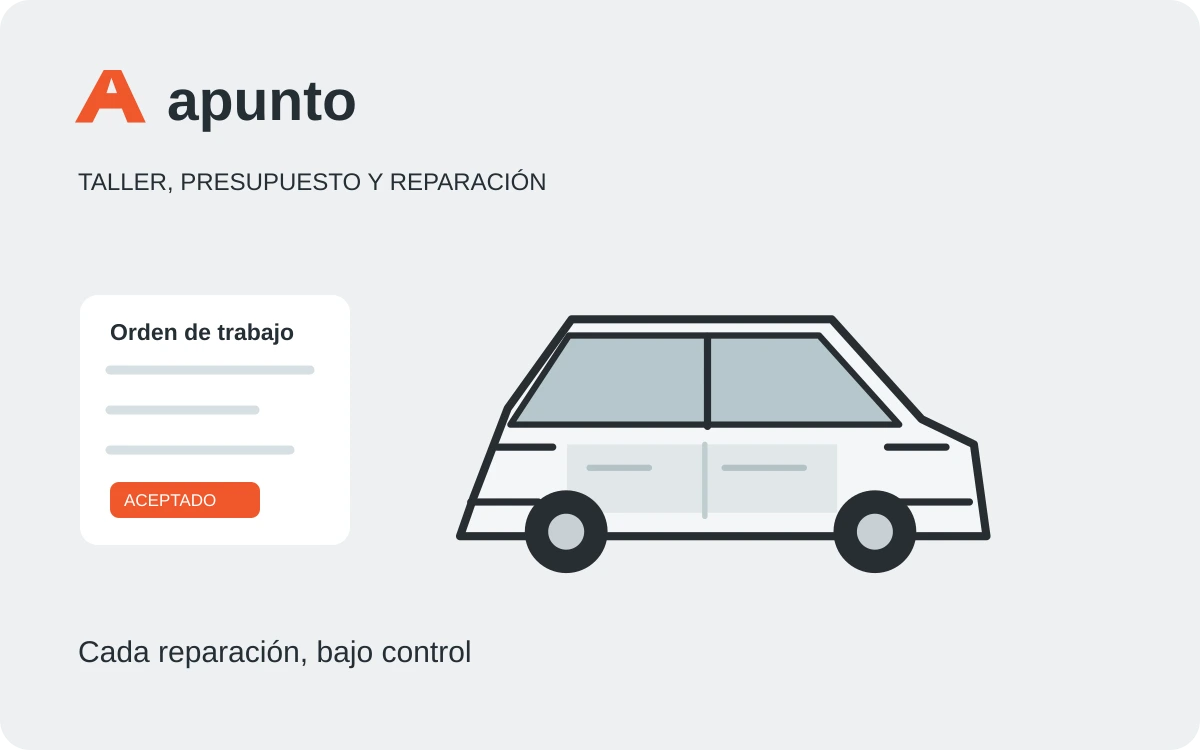
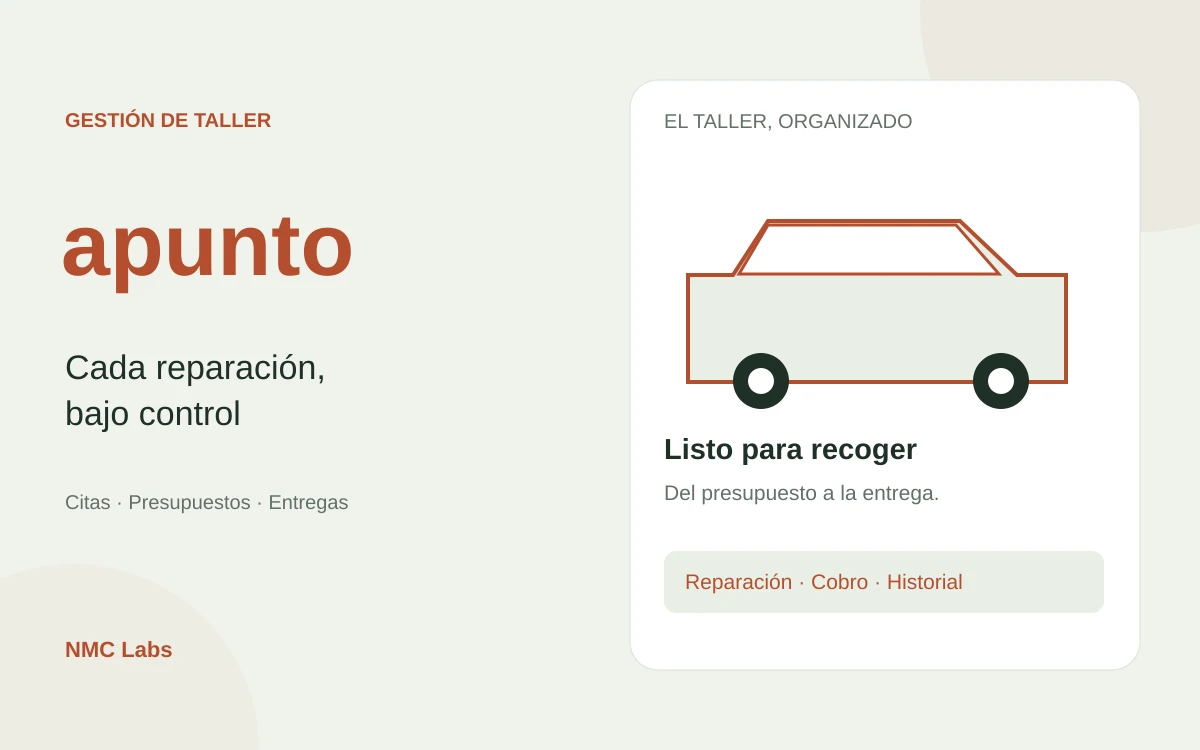
Group nodo with tools and unify project covers with the atlas layout

diff --git a/index.html b/index.html
@@ -49,9 +49,9 @@
         <a class="puntual-art brand-art" href="https://puntual.nmclabs.dev/" target="_blank" rel="noopener noreferrer" aria-label="Descubrir Puntual en una pestaña nueva"><span class="puntual-art-label">MENOS LLAMADAS. MÁS TIEMPO PARA LO TUYO.</span><picture class="project-cover"><source media="(prefers-color-scheme: dark)" srcset="proyectos/puntual-brand-dark.webp?v=themes1"><img src="proyectos/puntual-brand-light.webp?v=themes1" width="1200" height="750" alt="puntual: marca y agenda de barbería" loading="lazy"></picture><span class="puntual-art-caption">Tu equipo. Una sola agenda.<span aria-hidden="true"><svg class="icon-arrow" viewBox="0 0 24 24" fill="none" aria-hidden="true"><path d="m6 18 12-12M6 6h12v12" stroke="currentColor" stroke-width="1.7" stroke-linecap="round" stroke-linejoin="round"/></svg></span></span></a>
         <details class="project-origin"><summary><span>La idea detrás del proyecto</span><span class="origin-toggle" aria-hidden="true">+</span></summary><div class="origin-content" aria-label="La idea de Puntual"><div><span class="origin-label">LA IDEA</span><p>Un corte no debería interrumpirse para encontrar una hora entre llamadas y mensajes.</p></div><div><span class="origin-label">EL RETO</span><p>Hacer que cada reserva respete las especialidades del equipo, la duración del servicio y los descansos.</p></div><div><span class="origin-label">LA DECISIÓN</span><p>Conectar la reserva del cliente y la agenda del negocio en una demo completa, con cambios y cancelaciones que actualizan los huecos.</p></div></div></details>
       </article>
-      <article class="featured amano-featured" aria-labelledby="amano-titulo"><div class="featured-content"><p class="eyebrow"><time datetime="2026">2026</time> · INVENTARIO DE EMPRESA</p><h3 id="amano-titulo">Cada equipo,<br>en su sitio</h3><p>amano conecta el material de una empresa con las personas, las ubicaciones y su historial. Registra equipos con foto, personaliza la identidad de tu empresa y prueba asignaciones, préstamos, devoluciones, mantenimiento y etiquetas QR.</p><ul class="tags" aria-label="Funciones de amano"><li>Inventario</li><li>Custodia y préstamos</li><li>QR y mantenimiento</li></ul><a class="button project-cta" href="https://amano.nmclabs.dev/" target="_blank" rel="noopener noreferrer">Descubrir amano <span aria-hidden="true"><svg class="icon-arrow" viewBox="0 0 24 24" fill="none"><path d="m6 18 12-12M6 6h12v12" stroke="currentColor" stroke-width="1.7" stroke-linecap="round" stroke-linejoin="round"/></svg></span></a></div><a class="amano-art brand-art" href="https://amano.nmclabs.dev/" target="_blank" rel="noopener noreferrer" aria-label="Descubrir amano en una pestaña nueva"><picture class="project-cover"><source media="(prefers-color-scheme: dark)" srcset="proyectos/amano-brand-dark.webp?v=themes1"><img src="proyectos/amano-brand-light.webp?v=themes1" width="1200" height="750" alt="amano: equipo identificado, portátil y persona responsable" loading="lazy"></picture></a><details class="project-origin"><summary><span>La idea detrás del proyecto</span><span class="origin-toggle" aria-hidden="true">+</span></summary><div class="origin-content" aria-label="La idea de amano"><div><span class="origin-label">LA IDEA</span><p>Saber qué material tiene una empresa, dónde está y quién lo utiliza sin depender de varias hojas y mensajes.</p></div><div><span class="origin-label">EL RETO</span><p>Conectar cada equipo con su persona responsable, las entregas, las devoluciones y los cuidados pendientes.</p></div><div><span class="origin-label">LA DECISIÓN</span><p>Dar identidad propia a cada unidad y permitir probar el recorrido completo, desde el alta hasta una etiqueta QR.</p></div></div></details></article>
-      <article class="featured apunto-featured" aria-labelledby="apunto-titulo"><div class="featured-content"><p class="eyebrow"><time datetime="2026">2026</time> · GESTIÓN DE TALLERES</p><h3 id="apunto-titulo">Cada reparación,<br>bajo control</h3><p>apunto conecta citas, recepción y reparación para talleres de coches y motos. El cliente revisa el presupuesto original y sus adicionales; el negocio planifica profesionales y elevadores, gestiona piezas y conserva el historial. Incluye cobro presencial, resguardo y recordatorios de mantenimiento en una demo local.</p><ul class="tags" aria-label="Funciones de apunto"><li>Presupuestos y adicionales</li><li>Clientes y planificación</li><li>Historial y mantenimiento</li></ul><a class="button project-cta" href="https://apunto.nmclabs.dev/" target="_blank" rel="noopener noreferrer">Descubrir apunto <span aria-hidden="true"><svg class="icon-arrow" viewBox="0 0 24 24" fill="none"><path d="m6 18 12-12M6 6h12v12" stroke="currentColor" stroke-width="1.7" stroke-linecap="round" stroke-linejoin="round"/></svg></span></a></div><a class="apunto-art brand-art" href="https://apunto.nmclabs.dev/" target="_blank" rel="noopener noreferrer" aria-label="Descubrir apunto en una pestaña nueva"><picture class="project-cover"><source media="(prefers-color-scheme: dark)" srcset="proyectos/apunto-brand-dark.webp?v=20261121"><img src="proyectos/apunto-brand-light.webp?v=20261121" width="1200" height="750" alt="apunto: marca, vehículo y orden de trabajo" loading="lazy"></picture></a><details class="project-origin"><summary><span>La idea detrás del proyecto</span><span class="origin-toggle" aria-hidden="true">+</span></summary><div class="origin-content" aria-label="La idea de apunto"><div><span class="origin-label">LA IDEA</span><p>Una reparación necesita coordinar el trabajo del taller y mantener informado al cliente.</p></div><div><span class="origin-label">EL RETO</span><p>Conectar diagnóstico, presupuesto y piezas sin perder el estado ni la decisión del cliente.</p></div><div><span class="origin-label">LA DECISIÓN</span><p>Una orden de principio a fin, con acceso del cliente y versiones del presupuesto que conservan su historial.</p></div></div></details></article>
-<article class="featured nodo-featured" aria-labelledby="nodo-titulo"><div class="featured-content"><p class="eyebrow"><time datetime="2026">2026</time> · HERRAMIENTAS DE SISTEMAS</p><h3 id="nodo-titulo">Piensa, diseña,<br>comprueba</h3><p>Más de 100 herramientas para trabajar con redes, correo, datos y accesos. Diseña racks en 2D, coloca equipos, comprueba DNS y prepara informes. Una interfaz centrada en cada tarea, con cálculos locales y consultas externas autorizadas.</p><ul class="tags" aria-label="Funciones de nodo"><li>Más de 100 herramientas</li><li>Contraseñas y DNS</li><li>Racks 2D</li></ul><a class="button project-cta" href="https://nodo.nmclabs.dev/" target="_blank" rel="noopener noreferrer">Descubrir nodo</a></div><a class="nodo-art brand-art" href="https://nodo.nmclabs.dev/" target="_blank" rel="noopener noreferrer" aria-label="Descubrir nodo en una pestaña nueva"><picture class="project-cover"><source media="(prefers-color-scheme: dark)" srcset="proyectos/nodo-brand-dark.webp?v=20261124-focus"><img src="proyectos/nodo-brand-light.webp?v=20261124-focus" width="1200" height="750" alt="nodo: contraseñas, consulta DNS y diseñador de racks 2D" loading="lazy"></picture></a><details class="project-origin"><summary><span>La idea detrás del proyecto</span><span class="origin-toggle" aria-hidden="true">+</span></summary><div class="origin-content" aria-label="La idea de nodo"><div><span class="origin-label">LA IDEA</span><p>Resolver esas pequeñas tareas de sistemas que se repiten cada día, desde un solo lugar.</p></div><div><span class="origin-label">EL RETO</span><p>Generar accesos, conectar invitados y comprobar una copia sin enviar información privada a un servicio.</p></div><div><span class="origin-label">LA DECISIÓN</span><p>Herramientas agrupadas en la navegación superior, procesos locales y un editor visual de racks. Los proyectos se descargan de forma explícita y las consultas públicas requieren autorización.</p></div></div></details></article>
+      <article class="featured amano-featured" aria-labelledby="amano-titulo"><div class="featured-content"><p class="eyebrow"><time datetime="2026">2026</time> · INVENTARIO DE EMPRESA</p><h3 id="amano-titulo">Cada equipo,<br>en su sitio</h3><p>amano conecta el material de una empresa con las personas, las ubicaciones y su historial. Registra equipos con foto, personaliza la identidad de tu empresa y prueba asignaciones, préstamos, devoluciones, mantenimiento y etiquetas QR.</p><ul class="tags" aria-label="Funciones de amano"><li>Inventario</li><li>Custodia y préstamos</li><li>QR y mantenimiento</li></ul><a class="button project-cta" href="https://amano.nmclabs.dev/" target="_blank" rel="noopener noreferrer">Descubrir amano <span aria-hidden="true"><svg class="icon-arrow" viewBox="0 0 24 24" fill="none"><path d="m6 18 12-12M6 6h12v12" stroke="currentColor" stroke-width="1.7" stroke-linecap="round" stroke-linejoin="round"/></svg></span></a></div><a class="amano-art brand-art" href="https://amano.nmclabs.dev/" target="_blank" rel="noopener noreferrer" aria-label="Descubrir amano en una pestaña nueva"><picture class="project-cover"><source media="(prefers-color-scheme: dark)" srcset="proyectos/amano-brand-dark.webp?v=20261124-unified"><img src="proyectos/amano-brand-light.webp?v=20261124-unified" width="1200" height="750" alt="amano: equipo identificado, portátil y persona responsable" loading="lazy"></picture></a><details class="project-origin"><summary><span>La idea detrás del proyecto</span><span class="origin-toggle" aria-hidden="true">+</span></summary><div class="origin-content" aria-label="La idea de amano"><div><span class="origin-label">LA IDEA</span><p>Saber qué material tiene una empresa, dónde está y quién lo utiliza sin depender de varias hojas y mensajes.</p></div><div><span class="origin-label">EL RETO</span><p>Conectar cada equipo con su persona responsable, las entregas, las devoluciones y los cuidados pendientes.</p></div><div><span class="origin-label">LA DECISIÓN</span><p>Dar identidad propia a cada unidad y permitir probar el recorrido completo, desde el alta hasta una etiqueta QR.</p></div></div></details></article>
+      <article class="featured apunto-featured" aria-labelledby="apunto-titulo"><div class="featured-content"><p class="eyebrow"><time datetime="2026">2026</time> · GESTIÓN DE TALLERES</p><h3 id="apunto-titulo">Cada reparación,<br>bajo control</h3><p>apunto conecta citas, recepción y reparación para talleres de coches y motos. El cliente revisa el presupuesto original y sus adicionales; el negocio planifica profesionales y elevadores, gestiona piezas y conserva el historial. Incluye cobro presencial, resguardo y recordatorios de mantenimiento en una demo local.</p><ul class="tags" aria-label="Funciones de apunto"><li>Presupuestos y adicionales</li><li>Clientes y planificación</li><li>Historial y mantenimiento</li></ul><a class="button project-cta" href="https://apunto.nmclabs.dev/" target="_blank" rel="noopener noreferrer">Descubrir apunto <span aria-hidden="true"><svg class="icon-arrow" viewBox="0 0 24 24" fill="none"><path d="m6 18 12-12M6 6h12v12" stroke="currentColor" stroke-width="1.7" stroke-linecap="round" stroke-linejoin="round"/></svg></span></a></div><a class="apunto-art brand-art" href="https://apunto.nmclabs.dev/" target="_blank" rel="noopener noreferrer" aria-label="Descubrir apunto en una pestaña nueva"><picture class="project-cover"><source media="(prefers-color-scheme: dark)" srcset="proyectos/apunto-brand-dark.webp?v=20261124-unified"><img src="proyectos/apunto-brand-light.webp?v=20261124-unified" width="1200" height="750" alt="apunto: marca, vehículo y orden de trabajo" loading="lazy"></picture></a><details class="project-origin"><summary><span>La idea detrás del proyecto</span><span class="origin-toggle" aria-hidden="true">+</span></summary><div class="origin-content" aria-label="La idea de apunto"><div><span class="origin-label">LA IDEA</span><p>Una reparación necesita coordinar el trabajo del taller y mantener informado al cliente.</p></div><div><span class="origin-label">EL RETO</span><p>Conectar diagnóstico, presupuesto y piezas sin perder el estado ni la decisión del cliente.</p></div><div><span class="origin-label">LA DECISIÓN</span><p>Una orden de principio a fin, con acceso del cliente y versiones del presupuesto que conservan su historial.</p></div></div></details></article>
+
       <article class="featured estancia-featured" aria-labelledby="estancia-titulo"><div class="featured-content"><p class="eyebrow"><time datetime="2026">2026</time> · HOTELES Y ALOJAMIENTOS</p><h3 id="estancia-titulo">Cada estancia,<br>bien cuidada</h3><p>estancia conecta reservas, habitaciones y tarifas de temporada para hoteles, apartamentos y casas rurales. Gestiona categorías y fotos, prueba el check-in del huésped y atiende sus incidencias. Incluye informes, web del alojamiento y una guía para preparar conexiones con Airbnb o Booking.</p><ul class="tags" aria-label="Funciones de estancia"><li>Reservas</li><li>Tipos y cupos</li><li>Tarifas e informes</li></ul><a class="button project-cta" href="https://estancia.nmclabs.dev/" target="_blank" rel="noopener noreferrer">Descubrir estancia <span aria-hidden="true"><svg class="icon-arrow" viewBox="0 0 24 24" fill="none"><path d="m6 18 12-12M6 6h12v12" stroke="currentColor" stroke-width="1.7" stroke-linecap="round" stroke-linejoin="round"/></svg></span></a></div><a class="estancia-art brand-art" href="https://estancia.nmclabs.dev/" target="_blank" rel="noopener noreferrer" aria-label="Descubrir estancia en una pestaña nueva"><picture class="project-cover"><source media="(prefers-color-scheme: dark)" srcset="proyectos/estancia-brand-dark.webp?v=themes1"><img src="proyectos/estancia-brand-light.webp?v=themes1" width="1200" height="750" alt="estancia: marca, alojamiento y calendario de reservas" loading="lazy"></picture></a><details class="project-origin"><summary><span>La idea detrás del proyecto</span><span class="origin-toggle" aria-hidden="true">+</span></summary><div class="origin-content" aria-label="La idea de estancia"><div><span class="origin-label">LA IDEA</span><p>Organizar reservas y preparar cada llegada sin perder la cercanía con los huéspedes.</p></div><div><span class="origin-label">EL RETO</span><p>Conectar la disponibilidad de cada unidad, las tareas y la experiencia de quien reserva.</p></div><div><span class="origin-label">LA DECISIÓN</span><p>Una gestión para el negocio y una web con su propia identidad, con ejemplos de hotel, apartamentos y finca rural.</p></div></div></details></article>
       <article class="featured atlas-featured" aria-labelledby="atlas-titulo">
         <div class="featured-content"><p class="eyebrow"><time datetime="2026">2026</time> · PATRIMONIO PERSONAL</p><h3 id="atlas-titulo">Un lugar para ver<br>tu patrimonio</h3><p>atlas reúne cuentas, inversiones y activos en una visión clara. Un registro mensual para entender tu evolución, a tu ritmo.</p><ul class="tags" aria-label="Funciones de Atlas"><li>Patrimonio</li><li>Evolución</li><li>Informes</li></ul><a class="button project-cta" href="https://atlas.nmclabs.dev/" target="_blank" rel="noopener noreferrer">Descubrir atlas <span aria-hidden="true"><svg class="icon-arrow" viewBox="0 0 24 24" fill="none" aria-hidden="true"><path d="m6 18 12-12M6 6h12v12" stroke="currentColor" stroke-width="1.7" stroke-linecap="round" stroke-linejoin="round"/></svg></span><span class="sr-only"> (se abre en una pestaña nueva)</span></a></div>
@@ -61,7 +61,7 @@
         <div class="featured-content"><p class="eyebrow"><time datetime="2026">2026</time> · SEGUIMIENTO DE ENVÍOS</p><h3 id="tramo-titulo">Tus paquetes,<br>en cada tramo</h3><p>tramo reúne tus envíos en un solo lugar. Consulta rápida, un espacio personal y una demo para explorar cada paso del recorrido.</p><ul class="tags" aria-label="Funciones de Tramo"><li>Seguimiento</li><li>Paquetes</li><li>Demo interactiva</li></ul><a class="button project-cta" href="https://tramo.nmclabs.dev/" target="_blank" rel="noopener noreferrer">Descubrir tramo <span aria-hidden="true"><svg class="icon-arrow" viewBox="0 0 24 24" fill="none" aria-hidden="true"><path d="m6 18 12-12M6 6h12v12" stroke="currentColor" stroke-width="1.7" stroke-linecap="round" stroke-linejoin="round"/></svg></span></a></div>
         <a class="tramo-art" href="https://tramo.nmclabs.dev/" aria-label="Descubrir Tramo" target="_blank" rel="noopener noreferrer"><picture class="project-cover"><source media="(prefers-color-scheme: dark)" srcset="proyectos/tramo-brand-dark.webp?v=themes1"><img src="proyectos/tramo-brand-light.webp?v=themes1" width="1200" height="750" alt="tramo: marca y ruta de un envío" loading="lazy"></picture></a>
       <details class="project-origin"><summary><span>La idea detrás del proyecto</span><span class="origin-toggle" aria-hidden="true">+</span></summary><div class="origin-content" aria-label="La idea de Tramo"><div><span class="origin-label">LA IDEA</span><p>La historia de un envío suele quedar repartida entre compañías, estados y páginas distintas.</p></div><div><span class="origin-label">EL RETO</span><p>Entender qué ha pasado y dónde está el paquete sin tener que reconstruir el recorrido.</p></div><div><span class="origin-label">LA DECISIÓN</span><p>Reunir los eventos en una línea de tiempo y un mapa, conservando el mensaje original del transportista.</p></div></div></details></article>
-<section class="current-tools" aria-labelledby="current-tools-title"><header class="current-tools-heading"><div><p class="eyebrow">CREADAS PARA EL MOMENTO</p><h3 id="current-tools-title">Herramientas de actualidad</h3></div><p>Guías interactivas, cuentas atrás y simulación.<br>Herramientas con sus fuentes enlazadas.</p></header><div class="current-tools-grid"><article class="current-tool"><a class="current-tool-image" href="https://gtacountdown.nmclabs.dev/" target="_blank" rel="noopener noreferrer" aria-label="Abrir GTA VI · Cuenta atrás en una pestaña nueva"><picture class="project-cover"><source media="(prefers-color-scheme: dark)" srcset="proyectos/gtavi-brand-dark.webp?v=themes1"><img src="proyectos/gtavi-brand-light.webp?v=themes1" width="1200" height="750" alt="GTA VI: cuenta atrás y escena oficial de Leonida" loading="lazy"></picture></a><div class="current-tool-content"><p class="eyebrow"><time datetime="2026">2026</time> · CUENTA ATRÁS</p><div class="current-tool-heading"><h4>GTA VI · Cuenta atrás</h4><span>19 de noviembre</span></div><p>La cuenta atrás de GTA VI sigue viva tras el estreno: tiempo transcurrido por región, 50 escenas, fondos y tarjetas compartibles. La misma espera, convertida en recuerdo.</p><a class="current-tool-link button project-cta" href="https://gtacountdown.nmclabs.dev/" target="_blank" rel="noopener noreferrer">Descubrir GTA VI <svg class="icon-arrow" viewBox="0 0 24 24" fill="none" aria-hidden="true"><path d="m6 18 12-12M6 6h12v12" stroke="currentColor" stroke-width="1.7" stroke-linecap="round" stroke-linejoin="round"/></svg><span class="sr-only"> (pestaña nueva)</span></a></div><details class="project-origin"><summary><span>La idea detrás del proyecto</span><span class="origin-toggle" aria-hidden="true">+</span></summary><div class="origin-content" aria-label="La idea de GTA VI · Cuenta atrás"><div><span class="origin-label">LA IDEA</span><p>Convertir la espera de GTA VI en una experiencia inspirada en sus pantallas de carga.</p></div><div><span class="origin-label">EL RETO</span><p>Dar variedad a la portada y permitir explorar escenas sin cargar todas las imágenes grandes de golpe.</p></div><div><span class="origin-label">LA DECISIÓN</span><p>Una página de escenas automáticas, favoritos y fondos; el idioma se adapta al sistema para entrar directamente.</p></div></div></details></article><article class="current-tool"><a class="current-tool-image" href="https://29n.nmclabs.dev/" target="_blank" rel="noopener noreferrer" aria-label="Abrir 29N en una pestaña nueva"><picture class="project-cover"><source media="(prefers-color-scheme: dark)" srcset="proyectos/29n-brand-dark.webp?v=themes1"><img src="proyectos/29n-brand-light.webp?v=themes1" width="1200" height="750" alt="29N: marca y hemiciclo ilustrativo" loading="lazy"></picture></a><div class="current-tool-content"><p class="eyebrow"><time datetime="2026">2026</time> · ESPECIAL ELECTORAL</p><div class="current-tool-heading"><h4>29N</h4><span>29 de noviembre</span></div><p>Un observatorio electoral para comparar sondeos, elegir partidos en las gráficas y explorar el hemiciclo de cada estimación. Con fuentes, contexto y resultados anteriores.</p><a class="current-tool-link button project-cta" href="https://29n.nmclabs.dev/" target="_blank" rel="noopener noreferrer">Descubrir 29N <svg class="icon-arrow" viewBox="0 0 24 24" fill="none" aria-hidden="true"><path d="m6 18 12-12M6 6h12v12" stroke="currentColor" stroke-width="1.7" stroke-linecap="round" stroke-linejoin="round"/></svg><span class="sr-only"> (pestaña nueva)</span></a></div><details class="project-origin"><summary><span>La idea detrás del proyecto</span><span class="origin-toggle" aria-hidden="true">+</span></summary><div class="origin-content" aria-label="La idea de 29N"><div><span class="origin-label">LA IDEA</span><p>Empezó como un calendario y un pactómetro; la idea creció hacia un observatorio para leer las elecciones.</p></div><div><span class="origin-label">EL RETO</span><p>Entender qué cuenta cada sondeo sin mezclar una encuesta, un resultado oficial y una simulación.</p></div><div><span class="origin-label">LA DECISIÓN</span><p>Dar prioridad a los datos: comparar empresas, elegir partidos en las gráficas y representar los repartos publicados.</p></div></div></details></article></div></section>
+<section class="current-tools" id="herramientas" aria-labelledby="current-tools-title"><header class="current-tools-heading"><div><p class="eyebrow">PARA HACER Y EXPLORAR</p><h3 id="current-tools-title">Herramientas</h3></div><p>Utilidades de sistemas y proyectos interactivos.<br>Ideas prácticas para trabajar y explorar.</p></header><article class="featured nodo-featured" aria-labelledby="nodo-titulo"><div class="featured-content"><p class="eyebrow"><time datetime="2026">2026</time> · HERRAMIENTAS DE SISTEMAS</p><h4 id="nodo-titulo">Piensa, diseña,<br>comprueba</h4><p>Más de 100 herramientas para trabajar con redes, correo, datos y accesos. Diseña racks en 2D, coloca equipos, comprueba DNS y prepara informes. Una interfaz centrada en cada tarea, con cálculos locales y consultas externas autorizadas.</p><ul class="tags" aria-label="Funciones de nodo"><li>Más de 100 herramientas</li><li>Contraseñas y DNS</li><li>Racks 2D</li></ul><a class="button project-cta" href="https://nodo.nmclabs.dev/" target="_blank" rel="noopener noreferrer">Descubrir nodo</a></div><a class="nodo-art brand-art" href="https://nodo.nmclabs.dev/" target="_blank" rel="noopener noreferrer" aria-label="Descubrir nodo en una pestaña nueva"><picture class="project-cover"><source media="(prefers-color-scheme: dark)" srcset="proyectos/nodo-brand-dark.webp?v=20261124-unified"><img src="proyectos/nodo-brand-light.webp?v=20261124-unified" width="1200" height="750" alt="nodo: contraseñas, consulta DNS y diseñador de racks 2D" loading="lazy"></picture></a><details class="project-origin"><summary><span>La idea detrás del proyecto</span><span class="origin-toggle" aria-hidden="true">+</span></summary><div class="origin-content" aria-label="La idea de nodo"><div><span class="origin-label">LA IDEA</span><p>Resolver esas pequeñas tareas de sistemas que se repiten cada día, desde un solo lugar.</p></div><div><span class="origin-label">EL RETO</span><p>Generar accesos, conectar invitados y comprobar una copia sin enviar información privada a un servicio.</p></div><div><span class="origin-label">LA DECISIÓN</span><p>Herramientas agrupadas en la navegación superior, procesos locales y un editor visual de racks. Los proyectos se descargan de forma explícita y las consultas públicas requieren autorización.</p></div></div></details></article><div class="current-tools-grid"><article class="current-tool"><a class="current-tool-image" href="https://gtacountdown.nmclabs.dev/" target="_blank" rel="noopener noreferrer" aria-label="Abrir GTA VI · Cuenta atrás en una pestaña nueva"><picture class="project-cover"><source media="(prefers-color-scheme: dark)" srcset="proyectos/gtavi-brand-dark.webp?v=themes1"><img src="proyectos/gtavi-brand-light.webp?v=themes1" width="1200" height="750" alt="GTA VI: cuenta atrás y escena oficial de Leonida" loading="lazy"></picture></a><div class="current-tool-content"><p class="eyebrow"><time datetime="2026">2026</time> · CUENTA ATRÁS</p><div class="current-tool-heading"><h4>GTA VI · Cuenta atrás</h4><span>19 de noviembre</span></div><p>La cuenta atrás de GTA VI sigue viva tras el estreno: tiempo transcurrido por región, 50 escenas, fondos y tarjetas compartibles. La misma espera, convertida en recuerdo.</p><a class="current-tool-link button project-cta" href="https://gtacountdown.nmclabs.dev/" target="_blank" rel="noopener noreferrer">Descubrir GTA VI <svg class="icon-arrow" viewBox="0 0 24 24" fill="none" aria-hidden="true"><path d="m6 18 12-12M6 6h12v12" stroke="currentColor" stroke-width="1.7" stroke-linecap="round" stroke-linejoin="round"/></svg><span class="sr-only"> (pestaña nueva)</span></a></div><details class="project-origin"><summary><span>La idea detrás del proyecto</span><span class="origin-toggle" aria-hidden="true">+</span></summary><div class="origin-content" aria-label="La idea de GTA VI · Cuenta atrás"><div><span class="origin-label">LA IDEA</span><p>Convertir la espera de GTA VI en una experiencia inspirada en sus pantallas de carga.</p></div><div><span class="origin-label">EL RETO</span><p>Dar variedad a la portada y permitir explorar escenas sin cargar todas las imágenes grandes de golpe.</p></div><div><span class="origin-label">LA DECISIÓN</span><p>Una página de escenas automáticas, favoritos y fondos; el idioma se adapta al sistema para entrar directamente.</p></div></div></details></article><article class="current-tool"><a class="current-tool-image" href="https://29n.nmclabs.dev/" target="_blank" rel="noopener noreferrer" aria-label="Abrir 29N en una pestaña nueva"><picture class="project-cover"><source media="(prefers-color-scheme: dark)" srcset="proyectos/29n-brand-dark.webp?v=themes1"><img src="proyectos/29n-brand-light.webp?v=themes1" width="1200" height="750" alt="29N: marca y hemiciclo ilustrativo" loading="lazy"></picture></a><div class="current-tool-content"><p class="eyebrow"><time datetime="2026">2026</time> · ESPECIAL ELECTORAL</p><div class="current-tool-heading"><h4>29N</h4><span>29 de noviembre</span></div><p>Un observatorio electoral para comparar sondeos, elegir partidos en las gráficas y explorar el hemiciclo de cada estimación. Con fuentes, contexto y resultados anteriores.</p><a class="current-tool-link button project-cta" href="https://29n.nmclabs.dev/" target="_blank" rel="noopener noreferrer">Descubrir 29N <svg class="icon-arrow" viewBox="0 0 24 24" fill="none" aria-hidden="true"><path d="m6 18 12-12M6 6h12v12" stroke="currentColor" stroke-width="1.7" stroke-linecap="round" stroke-linejoin="round"/></svg><span class="sr-only"> (pestaña nueva)</span></a></div><details class="project-origin"><summary><span>La idea detrás del proyecto</span><span class="origin-toggle" aria-hidden="true">+</span></summary><div class="origin-content" aria-label="La idea de 29N"><div><span class="origin-label">LA IDEA</span><p>Empezó como un calendario y un pactómetro; la idea creció hacia un observatorio para leer las elecciones.</p></div><div><span class="origin-label">EL RETO</span><p>Entender qué cuenta cada sondeo sin mezclar una encuesta, un resultado oficial y una simulación.</p></div><div><span class="origin-label">LA DECISIÓN</span><p>Dar prioridad a los datos: comparar empresas, elegir partidos en las gráficas y representar los repartos publicados.</p></div></div></details></article></div></section>
       <div class="archive-heading"><h3>Donde empezó todo</h3><p>Mis primeras webs, con su año de origen y nuevas formas de revisitarlas.</p></div>
       <div class="project-grid">
 <article class="project-lineage" aria-label="Tinyspace: original y rediseño del mismo proyecto"><header class="lineage-heading"><div><h3>Tinyspace</h3><p>Del primer catálogo de mobiliario a una tienda que permite probar sus muebles a escala.</p></div><span class="lineage-years"><time datetime="2022">2022</time><span aria-hidden="true">→</span><time datetime="2026">2026</time></span></header><div class="lineage-versions"><section class="lineage-original"><p class="version-badge">EL ORIGINAL · 2022</p><a class="lineage-image" href="https://tinyspace.nmclabs.dev/" target="_blank" rel="noopener noreferrer" aria-label="Visitar Tinyspace original (pestaña nueva)"><picture class="project-cover"><source media="(prefers-color-scheme: dark)" srcset="proyectos/tinyspace-original-card-dark.webp?v=themes1"><img src="proyectos/tinyspace-original-card-light.webp?v=themes1" width="1200" height="750" alt="Tinyspace: versión original" loading="lazy"></picture></a><h4>El primer catálogo</h4><p>Un concepto de mueblería para practicar HTML, CSS, imágenes y composición.</p><a class="lineage-action button project-cta" href="https://tinyspace.nmclabs.dev/" target="_blank" rel="noopener noreferrer">Visitar original <svg class="icon-arrow" viewBox="0 0 24 24" fill="none" aria-hidden="true"><path d="m6 18 12-12M6 6h12v12" stroke="currentColor" stroke-width="1.7" stroke-linecap="round" stroke-linejoin="round"/></svg></a></section><section class="lineage-new"><p class="version-badge">EL REDISEÑO · 2026 · NMC LABS</p><a class="lineage-image" href="https://tiny.nmclabs.dev/" target="_blank" rel="noopener noreferrer" aria-label="Explorar Tinyspace rediseñado (pestaña nueva)"><picture class="project-cover"><source media="(prefers-color-scheme: dark)" srcset="proyectos/tinyspace-brand-dark.webp?v=themes1"><img src="proyectos/tinyspace-brand-light.webp?v=themes1" width="1200" height="750" alt="Tinyspace: butaca y distribución a escala" loading="lazy"></picture></a><h4>Tienda y plano a medida</h4><p>Treinta productos, una habitación editable y propuestas para empresas.</p><a class="lineage-action primary button project-cta" href="https://tiny.nmclabs.dev/" target="_blank" rel="noopener noreferrer">Descubrir rediseño <svg class="icon-arrow" viewBox="0 0 24 24" fill="none" aria-hidden="true"><path d="m6 18 12-12M6 6h12v12" stroke="currentColor" stroke-width="1.7" stroke-linecap="round" stroke-linejoin="round"/></svg></a></section></div><footer class="lineage-footer"><span>Un mismo proyecto. Dos etapas.</span><a class="button project-cta" href="proyectos/tinyspace.html">Historia y evolución <span aria-hidden="true">→</span></a></footer></article>

diff --git a/estilos.css b/estilos.css
@@ -133,3 +133,6 @@ details.project-origin{display:block;grid-column:1/-1;padding:0!important}detail
 .apunto-featured{margin-top:28px}.apunto-art{display:flex;align-items:center;justify-content:center;min-width:0;overflow:hidden}.apunto-art img{display:block;width:100%;height:auto;object-fit:contain}.apunto-art:focus-visible{outline-offset:-5px}
 
 .nodo-featured{margin-top:28px}.nodo-art{display:flex;align-items:center;justify-content:center;min-width:0;overflow:hidden}.nodo-art img{display:block;width:100%;height:auto;object-fit:contain}.nodo-art:focus-visible{outline-offset:-5px}
+
+/* Tool projects share the cover system, in their own portfolio section. */
+.current-tools .featured{margin-bottom:32px}.current-tools .featured-content h4{font-size:48px;line-height:1.12;letter-spacing:-.045em;margin-top:28px;margin-bottom:24px;font-weight:550}@media(max-width:680px){.current-tools .featured-content h4{font-size:35px;margin-top:22px}}

diff --git a/ASSET-PROVENANCE.md b/ASSET-PROVENANCE.md
@@ -19,3 +19,5 @@
 - nodo v6: portadas de 100 herramientas, con el símbolo de conexiones y variantes del sistema conservadas.
 
 - nodo · 24/11/2026: portadas clara y oscura de la interfaz verde, con composiciones de contraseñas, DNS y plano esquemático de rack 2D. Ilustración vectorial original reproducible en `nmclabs-nodo/scripts/cover-focus.mjs`, sin fotografías de fabricantes.
+
+- 24/11/2026: nodo, amano y apunto comparten la composición de atlas y el resto de proyectos: categoría, marca, titular, funciones y tarjeta de producto. Las tres portadas se regeneran con `node scripts/build-project-covers.mjs nodo amano apunto`; nodo conserva contraseñas, DNS y rack.
